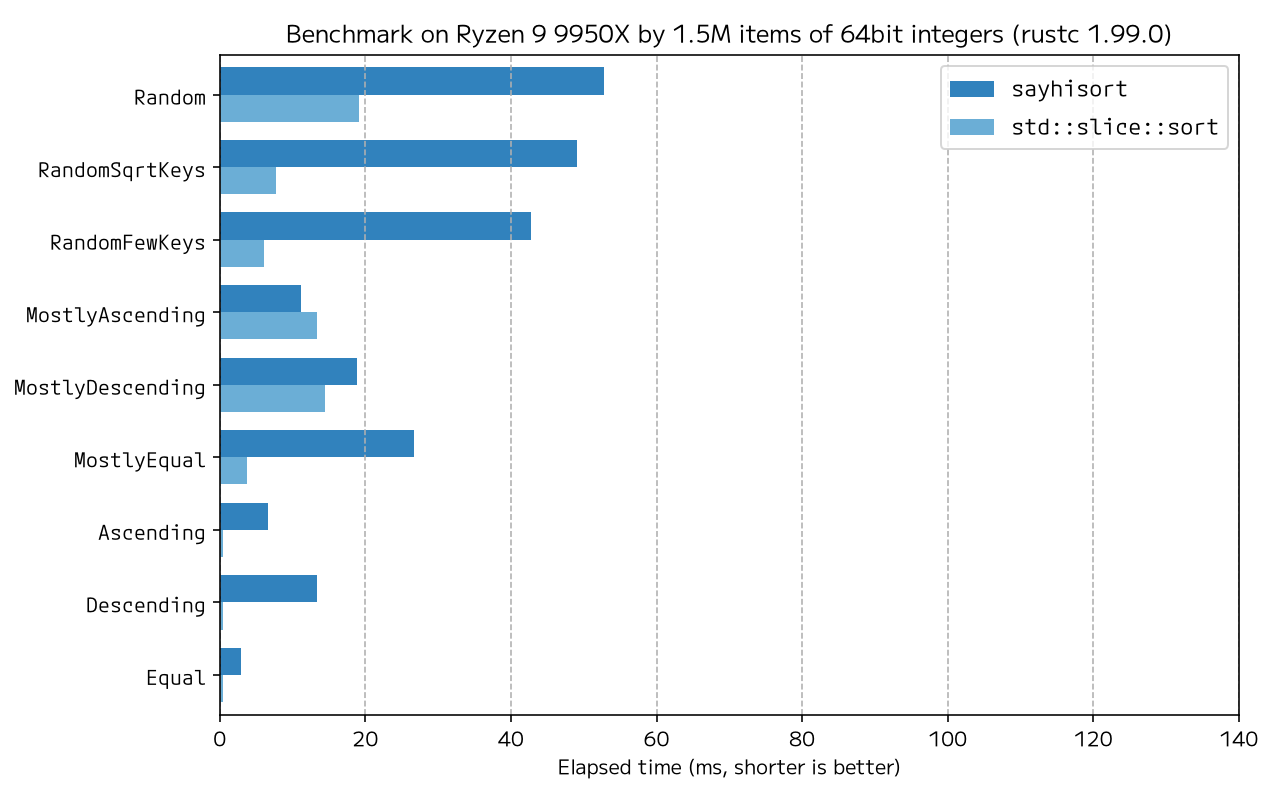
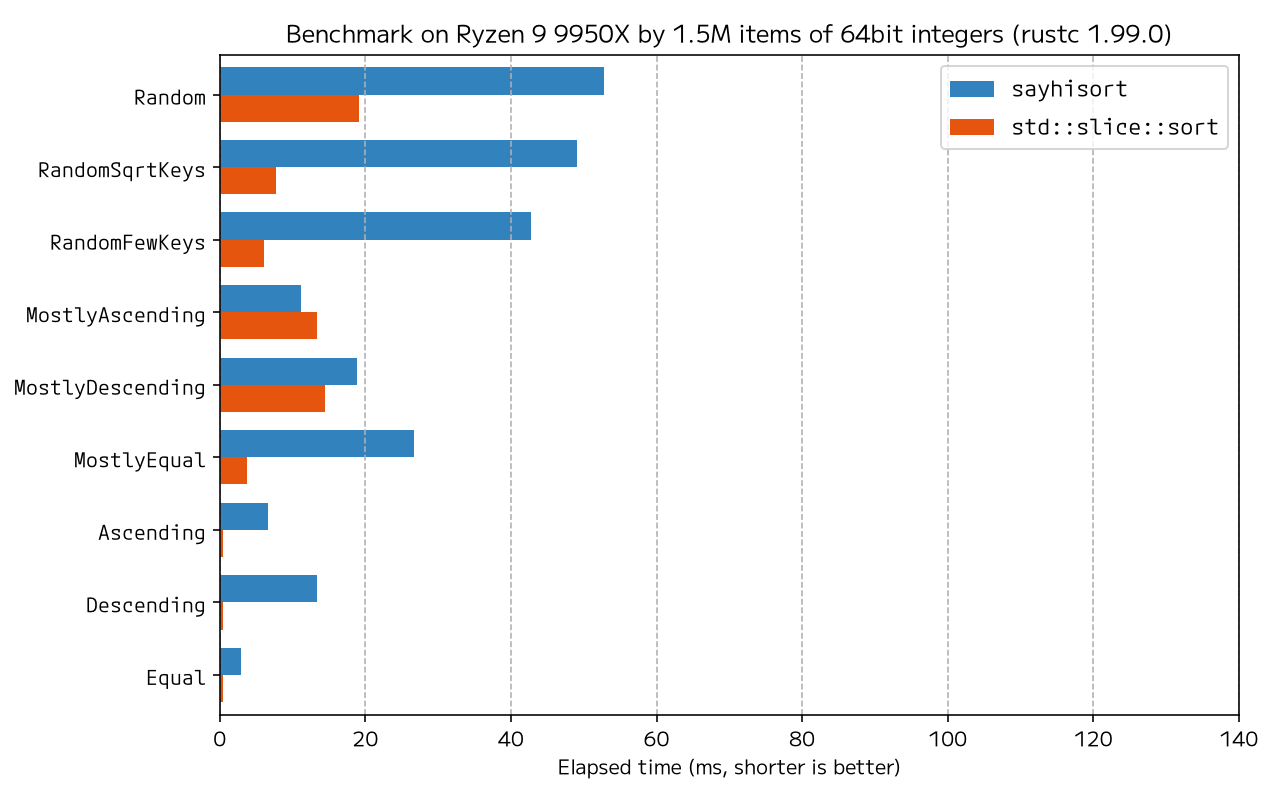
color std::slice::sort like std::stable_sort in the benchmark plot, written by Opus 5.5

diff --git a/cpp/bench_result/plot.py b/cpp/bench_result/plot.py
@@ -48,7 +48,7 @@ def plot_data(filename, libs, benches, table, compiler):
     for i, lib in enumerate(libs):
         barcenter = (i - 0.5 * (len(libs) - 1)) * groupheight / len(libs)
         barheight = groupheight / len(libs)
-        c = 8 if lib == "logsort" else i
+        c = {"std::stable_sort": 4, "std::slice::sort": 4, "logsort": 8}.get(lib, i)
         ax.barh(yticks + barcenter, table[i], height=barheight, label=lib, color=tab20c[c])
 
     plt.rcParams["font.family"] = ["M PLUS Code Latin 60"]
